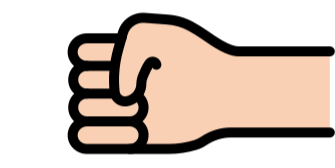
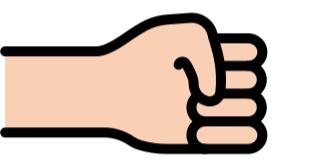
Use single round data instead of adding to array of all round results

diff --git a/main.js b/main.js
@@ -1,7 +1,7 @@
 let roundsPlayed = 0;
 let wins = 0;
 let losses = 0;
-let roundResults = [];
+let roundData = {};
 
 let roundArea = document.querySelector('#round-area');
 let roundNumber = document.querySelector('#round-number');
@@ -9,18 +9,21 @@ let makeChoice = document.querySelector('#make-choice');
 let playButtons = document.querySelector('#play-buttons');
 
 let roundRecap = document.querySelector('#round-recap');
+let playerChoice = document.querySelector('#player-choice');
+let computerChoice = document.querySelector('#computer-choice');
+let roundResult = document.querySelector('#round-result');
 let continueButtons = document.querySelector('#continue-buttons');
 let playAgain = document.querySelector('#play-again');
 
 let currentScore = document.querySelectorAll('.current-score');
-let recapSelections = document.querySelector('.recap-selections');
+
 
 // Hide roundRecap until user plays first round
 roundRecap.style.display = 'none';
 playAgain.style.display = 'none';
 
 function switchTo(view) {
-    // toggles roundArea between showing makeChoice or roundRecap view
+    // changes what roundArea shows
     if (view === 'roundRecap') {
         makeChoice.style.display = 'none';
         roundRecap.style.display = '';
@@ -43,7 +46,7 @@ playButtons.addEventListener('click', (e) => {
     // Target validation to avoid playing round if user clicks between buttons
     if (target === 'rock' || target === 'paper' || target === 'scissors') {
         playRound(`${target}`);
-        console.log(winnerCheck(), roundResults);
+        console.log(winnerCheck(), roundData);
         
         switchTo('roundRecap');
     }
@@ -61,59 +64,29 @@ continueButtons.addEventListener('click', (e) => {
     // }
 })
 
-/* 
-
-User presses hand button:
-
-    Round area:
-    - Change to Results state
-        - Hide hand buttons
-        - call playRound()
-        - Show choices, round result, updated score and Next round button
-
+/*
     Log area:
     - If this was first round: hide empty state and show log columns
     - Add round to log
-
-User presses Play again:
-
-    - Reset everything
-
-All states:
-    - roundNumber
-
-Choice state:
-    - div: playButtons
-        - p: Make your choice 
-        - div: buttons
-    - p: currentScore
-
-Result state:
-    - div: roundChoices
-    - p: roundResult
-    - p: currentScore
-    - button: nextRound
-
-Game over state:
-    - div: roundChoices
-    - p: gameResult
-    - button: playAgain
 */    
 
 function updateRoundNumber() {
+    // Triggered on 'New round' click; doesn't belong to updateRoundRecap
     roundNumber.textContent = `Round ${roundsPlayed + 1}`;
 }
 
-function updateScore() {
+function updateRoundRecap() {
     currentScore.forEach(element => {
         element.textContent = `Score is ${wins}-${losses}`;
-});
+    });
+
+    // roundResult.textContent = 
+
 }
 
 function playRound(playerSelection) {
     computerSelection = getComputerChoice();
     
-    let roundData = {};
     roundData.roundNumber = roundsPlayed + 1;
     roundData.playerSelection = playerSelection;
     roundData.computerSelection = computerSelection;
@@ -139,8 +112,7 @@ function playRound(playerSelection) {
             wins ++;
         }
 
-    updateScore();
-    roundResults.push(roundData);
+    updateRoundRecap();
     roundsPlayed++;
 }
 

diff --git a/index.html b/index.html
@@ -32,10 +32,22 @@
             
             <div id="round-recap">
                 <div id="round-choices"></div>
-                    <div class="recap-selections">You</div>
+                    <div id="player-choice">
+                        <p>You</p>
+                        <img src="./images/Rock-right.png" 
+                        alt="Rock pointing right" width="40px">
+                        <p>Rock</p>
+                    </div>
                     vs
-                    <div class="recap-selections">Handy</div>
-                <div id="round-result"></div>
+                    <div id="computer-choice">
+                        <p>Handy</p>
+                        <img src="./images/Rock-left.png" 
+                        alt="Rock pointing left" width="40px">
+                        <p>Rock</p>
+                    </div>
+                <div id="round-result">
+                    Tie!
+                </div>
                 <p class="current-score">Score is 0-0</p>
                 <div id="continue-buttons">
                     <button id="next-round">Next round</button>
